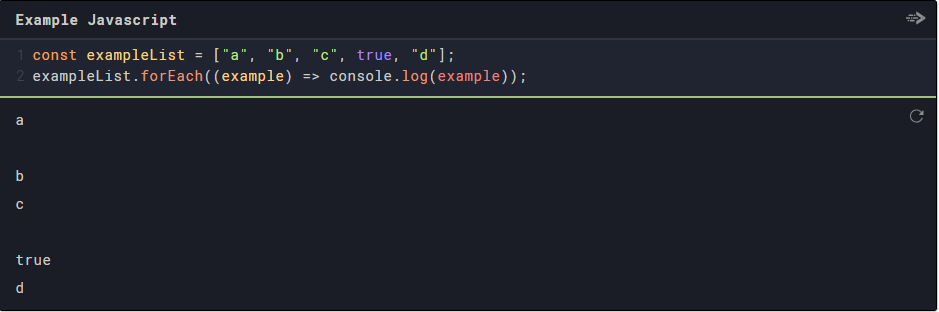
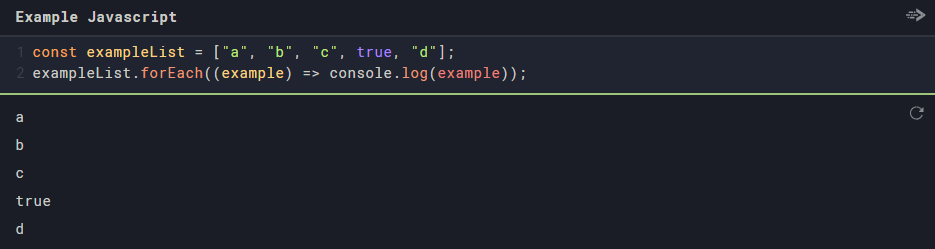
Updating Readme to reflect correct usage for the artifact property, updated screenshot following Codefence hotfix

diff --git a/Readme.md b/Readme.md
@@ -1,5 +1,7 @@
 # Gatsby Remark Codefence
 
+[![npm](https://img.shields.io/npm/v/gatsby-remark-codefence/latest.svg?style=flat-square)](https://www.npmjs.com/package/gatsby-remark-codefence)
+
 This plugin hooks into [gatsby-transformer-remark](https://www.gatsbyjs.org/packages/gatsby-transformer-remark/) to add [Codefence](https://codefence.io/) styled code formatting blocks to your website.
 
 Codefence creates interactive and runnable code sections; this plugin transform generic code formatted blocks in Markdown into their associated Codefence blocks.
@@ -52,7 +54,7 @@ For a full list of the available options that can be used when formatting your C
 - `lang`: this is determined by the language set on the triple-backtick, at the moment the following languages are supported -- Ada, C/C++, C#, Clojure, Crystal, D, Dart, Elixir, Erlang, Forth, GNU Assembly, Go, Haskell, Java, JavaScript, Kotlin, Lua, Perl, PHP, Python, R, Raku, Ruby, Rust, Scala, Swift, TypeScript, Zig
 - `version`: some of the languages supported have multiple versions that you can specify. Check the Codefence site for the up-to-date list, not all languages have configurable versions
 - `heading`: this is an extremely useful option, which shows a heading title for your code section (as shown in the example)
-- `artifact`: if your referenced code uses local files on your site, specify them here. There's an example on the Codefence site at the moment that uses Rust to write to a pre-existing file
+- `artifact`: if your code produces a file, this allows you to export that file so that it can be viewed in the results when your code is run
 - `cache` : set to false using "cache=false" on the opening line of your code if you are printing something like the current time in your examples, otherwise after the first time you use a code section, it becomes cached by Codefence. Otherwise, examples are cached for 24hrs at a time until their contents change.
 
 ## Contributions
